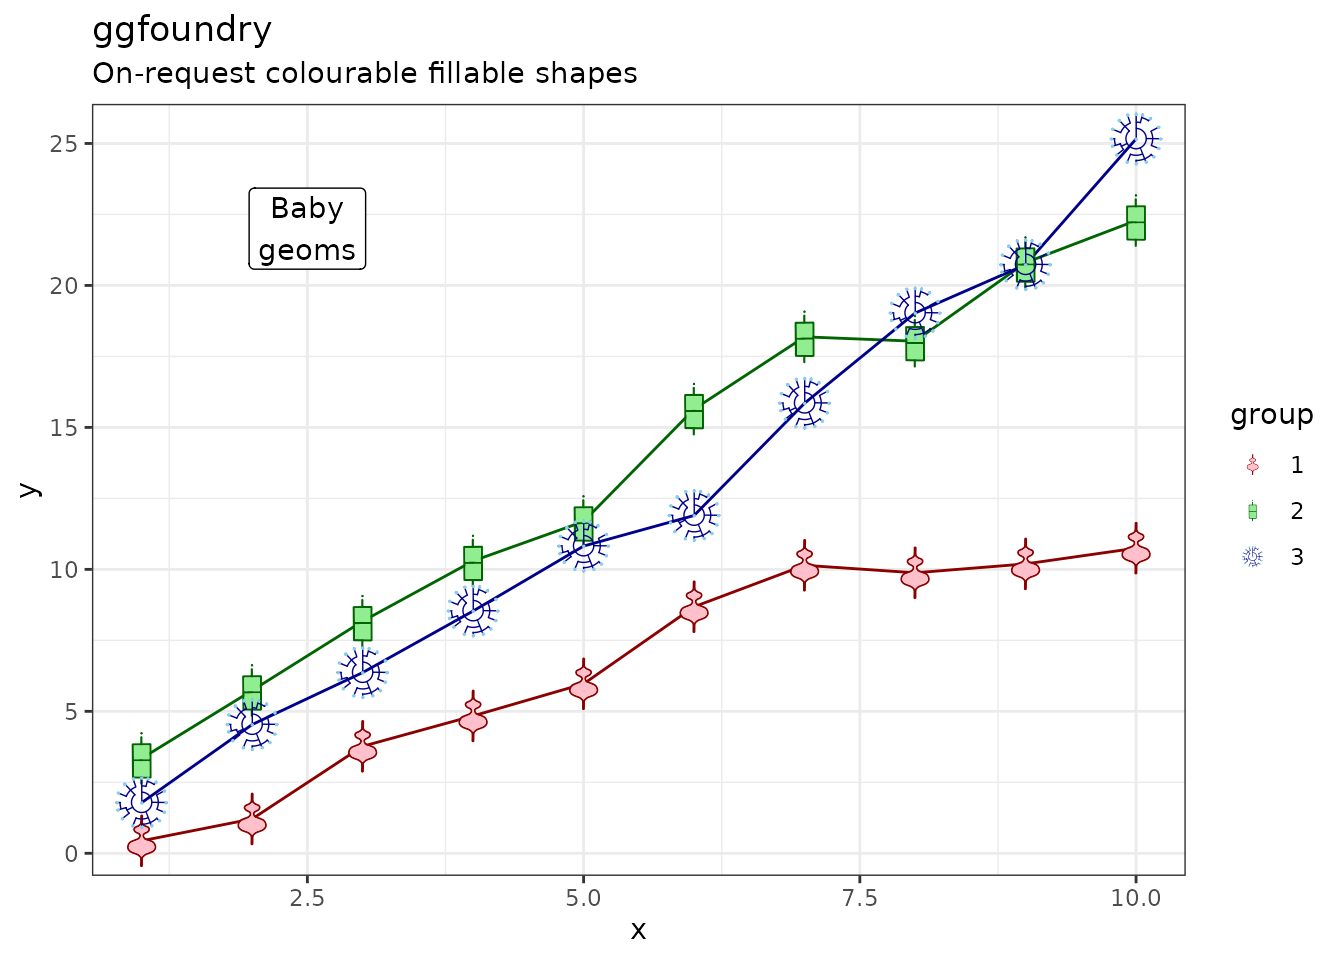
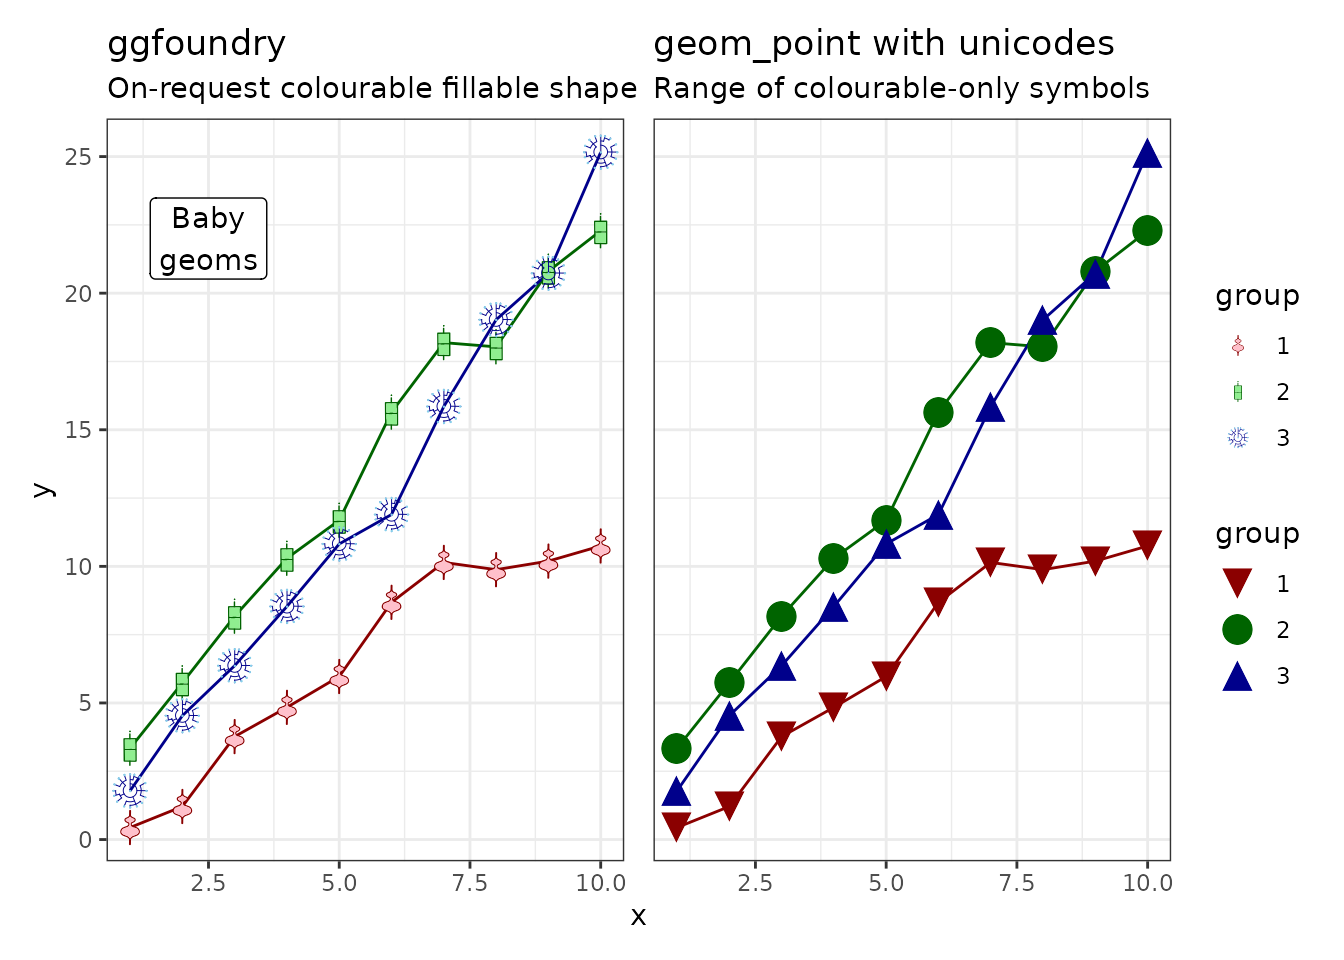
Deploying to gh-pages from @ cgoo4/ggfoundry@6482c1ad78275a4b85521bda27457c104b94830b 🚀

diff --git a/articles/ggfoundry.html b/articles/ggfoundry.html
@@ -161,29 +161,25 @@ great option. They are colourable and appear in the legend.</p>
 <span>  <span class="fu"><a href="https://ggplot2.tidyverse.org/reference/scale_manual.html" class="external-link">scale_fill_manual</a></span><span class="op">(</span>values <span class="op">=</span> <span class="fu"><a href="https://rdrr.io/r/base/c.html" class="external-link">c</a></span><span class="op">(</span><span class="st">"pink"</span>, <span class="st">"lightgreen"</span>, <span class="st">"skyblue"</span><span class="op">)</span><span class="op">)</span> <span class="op">+</span></span>
 <span>  <span class="fu"><a href="https://ggplot2.tidyverse.org/reference/ggtheme.html" class="external-link">theme_bw</a></span><span class="op">(</span><span class="op">)</span></span>
 <span></span>
-<span><span class="op">(</span><span class="va">p1</span> <span class="op">&lt;-</span> <span class="va">p</span> <span class="op">+</span></span>
+<span><span class="va">p1</span> <span class="op">&lt;-</span> <span class="va">p</span> <span class="op">+</span></span>
 <span>  <span class="fu"><a href="../reference/geom_casting.html">geom_casting</a></span><span class="op">(</span>size <span class="op">=</span> <span class="fl">0.15</span><span class="op">)</span> <span class="op">+</span></span>
 <span>  <span class="fu"><a href="https://ggplot2.tidyverse.org/reference/annotate.html" class="external-link">annotate</a></span><span class="op">(</span><span class="st">"label"</span>, x <span class="op">=</span> <span class="fl">2.5</span>, y <span class="op">=</span> <span class="fl">22</span>, label <span class="op">=</span> <span class="st">"Baby\ngeoms"</span><span class="op">)</span> <span class="op">+</span></span>
 <span>  <span class="fu"><a href="https://ggplot2.tidyverse.org/reference/scale_manual.html" class="external-link">scale_shape_manual</a></span><span class="op">(</span>values <span class="op">=</span> <span class="fu"><a href="https://rdrr.io/r/base/c.html" class="external-link">c</a></span><span class="op">(</span><span class="st">"violin"</span>, <span class="st">"box"</span>, <span class="st">"dendro"</span><span class="op">)</span><span class="op">)</span> <span class="op">+</span></span>
 <span>  <span class="fu"><a href="https://ggplot2.tidyverse.org/reference/labs.html" class="external-link">labs</a></span><span class="op">(</span></span>
 <span>    title <span class="op">=</span> <span class="st">"ggfoundry"</span>,</span>
 <span>    subtitle <span class="op">=</span> <span class="st">"On-request colourable fillable shapes"</span></span>
-<span>    <span class="op">)</span><span class="op">)</span></span></code></pre></div>
-<p><img src="ggfoundry_files/figure-html/unicodes-1.png" width="672"></p>
-<div class="sourceCode" id="cb3"><pre class="downlit sourceCode r">
-<code class="sourceCode R"><span></span>
-<span><span class="op">(</span><span class="va">p2</span> <span class="op">&lt;-</span> <span class="va">p</span> <span class="op">+</span></span>
+<span>    <span class="op">)</span></span>
+<span></span>
+<span><span class="va">p2</span> <span class="op">&lt;-</span> <span class="va">p</span> <span class="op">+</span></span>
 <span>  <span class="fu"><a href="https://ggplot2.tidyverse.org/reference/geom_point.html" class="external-link">geom_point</a></span><span class="op">(</span>size <span class="op">=</span> <span class="fl">5</span><span class="op">)</span> <span class="op">+</span></span>
-<span>  <span class="fu"><a href="https://ggplot2.tidyverse.org/reference/scale_manual.html" class="external-link">scale_shape_manual</a></span><span class="op">(</span>values <span class="op">=</span> <span class="fu"><a href="https://rdrr.io/r/base/c.html" class="external-link">c</a></span><span class="op">(</span><span class="st">"\u058D"</span>, <span class="st">"\u23C0"</span>, <span class="st">"\u23F2"</span><span class="op">)</span><span class="op">)</span> <span class="op">+</span></span>
+<span>  <span class="fu"><a href="https://ggplot2.tidyverse.org/reference/scale_manual.html" class="external-link">scale_shape_manual</a></span><span class="op">(</span>values<span class="op">=</span><span class="fu"><a href="https://rdrr.io/r/base/c.html" class="external-link">c</a></span><span class="op">(</span><span class="st">"\U25BC"</span>,<span class="st">"\U25CF"</span>,<span class="st">"\U25B2"</span><span class="op">)</span><span class="op">)</span> <span class="op">+</span></span>
 <span>  <span class="fu"><a href="https://ggplot2.tidyverse.org/reference/labs.html" class="external-link">labs</a></span><span class="op">(</span></span>
 <span>    title <span class="op">=</span> <span class="st">"geom_point with unicodes"</span>,</span>
 <span>    subtitle <span class="op">=</span> <span class="st">"Range of colourable-only symbols"</span></span>
-<span>    <span class="op">)</span><span class="op">)</span></span></code></pre></div>
-<p><img src="ggfoundry_files/figure-html/unicodes-2.png" width="672"></p>
-<div class="sourceCode" id="cb4"><pre class="downlit sourceCode r">
-<code class="sourceCode R"><span></span>
+<span>    <span class="op">)</span></span>
+<span></span>
 <span><span class="va">p1</span> <span class="op">+</span> <span class="va">p2</span> <span class="op">+</span> <span class="fu"><a href="https://patchwork.data-imaginist.com/reference/plot_layout.html" class="external-link">plot_layout</a></span><span class="op">(</span>guides <span class="op">=</span> <span class="st">"collect"</span>, axes <span class="op">=</span> <span class="st">"collect"</span><span class="op">)</span></span></code></pre></div>
-<p><img src="ggfoundry_files/figure-html/unicodes-3.png" width="672"></p>
+<p><img src="ggfoundry_files/figure-html/unicodes-1.png" width="672"></p>
 </div>
 <div class="section level2">
 <h2 id="contrast-with-ggtext-icons">Contrast with ggtext / icons<a class="anchor" aria-label="anchor" href="#contrast-with-ggtext-icons"></a>
@@ -193,7 +189,7 @@ as ggplot points is via the showtext and ggtext packages. They too are
 colourable, but the fill is for the surrounding label rather than the
 symbol itself. The legend reflects the use of the richtext geom,
 i.e. shows letters.</p>
-<div class="sourceCode" id="cb5"><pre class="downlit sourceCode r">
+<div class="sourceCode" id="cb3"><pre class="downlit sourceCode r">
 <code class="sourceCode R"><span><span class="kw"><a href="https://rdrr.io/r/base/library.html" class="external-link">library</a></span><span class="op">(</span><span class="va"><a href="https://github.com/yixuan/showtext" class="external-link">showtext</a></span><span class="op">)</span></span>
 <span><span class="kw"><a href="https://rdrr.io/r/base/library.html" class="external-link">library</a></span><span class="op">(</span><span class="va"><a href="https://wilkelab.org/ggtext/" class="external-link">ggtext</a></span><span class="op">)</span></span>
 <span></span>
@@ -210,51 +206,13 @@ i.e. shows letters.</p>
 <span>    title <span class="op">=</span> <span class="st">"ggtext with icons"</span>,</span>
 <span>    subtitle <span class="op">=</span> <span class="fu"><a href="https://rdrr.io/r/base/paste.html" class="external-link">paste0</a></span><span class="op">(</span></span>
 <span>      <span class="st">"Colourable icons; label fill; "</span>, </span>
-<span>      <span class="st">"showtext alters patchwork font size; "</span>,</span>
 <span>      <span class="st">"text legend"</span></span>
 <span>      <span class="op">)</span></span>
 <span>    <span class="op">)</span></span>
 <span></span>
 <span><span class="va">p1</span> <span class="op">+</span> <span class="va">p2</span> <span class="op">+</span> <span class="fu"><a href="https://patchwork.data-imaginist.com/reference/plot_layout.html" class="external-link">plot_layout</a></span><span class="op">(</span>guides <span class="op">=</span> <span class="st">"collect"</span>, axes <span class="op">=</span> <span class="st">"collect"</span><span class="op">)</span></span></code></pre></div>
 <p><img src="ggfoundry_files/figure-html/ggtext-1.png" width="700"></p>
-<div class="sourceCode" id="cb6"><pre class="downlit sourceCode r">
-<code class="sourceCode R"><span><span class="fu">cowplot</span><span class="fu">::</span><span class="fu"><a href="https://wilkelab.org/cowplot/reference/plot_grid.html" class="external-link">plot_grid</a></span><span class="op">(</span><span class="va">p1</span>, <span class="va">p2</span><span class="op">)</span></span>
-<span><span class="co">#&gt; Warning in grid.Call(C_textBounds, as.graphicsAnnot(x$label), x$x, x$y, : font</span></span>
-<span><span class="co">#&gt; family 'fa-solid' not found in PostScript font database</span></span>
-<span><span class="co">#&gt; Warning in grid.Call(C_stringMetric, as.graphicsAnnot(x$label)): font family</span></span>
-<span><span class="co">#&gt; 'fa-solid' not found in PostScript font database</span></span>
-<span><span class="co">#&gt; Warning in grid.Call(C_stringMetric, as.graphicsAnnot(x$label)): font family</span></span>
-<span><span class="co">#&gt; 'fa-solid' not found in PostScript font database</span></span>
-<span><span class="co">#&gt; Warning in grid.Call(C_stringMetric, as.graphicsAnnot(x$label)): font family</span></span>
-<span><span class="co">#&gt; 'fa-solid' not found in PostScript font database</span></span>
-<span><span class="co">#&gt; Warning in grid.Call(C_stringMetric, as.graphicsAnnot(x$label)): font family</span></span>
-<span><span class="co">#&gt; 'fa-solid' not found in PostScript font database</span></span>
-<span><span class="co">#&gt; Warning in grid.Call(C_stringMetric, as.graphicsAnnot(x$label)): font family</span></span>
-<span><span class="co">#&gt; 'fa-solid' not found in PostScript font database</span></span>
-<span><span class="co">#&gt; Warning in grid.Call(C_stringMetric, as.graphicsAnnot(x$label)): font family</span></span>
-<span><span class="co">#&gt; 'fa-solid' not found in PostScript font database</span></span>
-<span><span class="co">#&gt; Warning in grid.Call(C_stringMetric, as.graphicsAnnot(x$label)): font family</span></span>
-<span><span class="co">#&gt; 'fa-solid' not found in PostScript font database</span></span>
-<span><span class="co">#&gt; Warning in grid.Call(C_stringMetric, as.graphicsAnnot(x$label)): font family</span></span>
-<span><span class="co">#&gt; 'fa-solid' not found in PostScript font database</span></span>
-<span><span class="co">#&gt; Warning in grid.Call(C_stringMetric, as.graphicsAnnot(x$label)): font family</span></span>
-<span><span class="co">#&gt; 'fa-solid' not found in PostScript font database</span></span>
-<span><span class="co">#&gt; Warning in grid.Call(C_stringMetric, as.graphicsAnnot(x$label)): font family</span></span>
-<span><span class="co">#&gt; 'fa-solid' not found in PostScript font database</span></span>
-<span><span class="co">#&gt; Warning in grid.Call(C_stringMetric, as.graphicsAnnot(x$label)): font family</span></span>
-<span><span class="co">#&gt; 'fa-solid' not found in PostScript font database</span></span>
-<span><span class="co">#&gt; Warning in grid.Call(C_stringMetric, as.graphicsAnnot(x$label)): font family</span></span>
-<span><span class="co">#&gt; 'fa-solid' not found in PostScript font database</span></span>
-<span><span class="co">#&gt; Warning in grid.Call(C_stringMetric, as.graphicsAnnot(x$label)): font family</span></span>
-<span><span class="co">#&gt; 'fa-solid' not found in PostScript font database</span></span>
-<span><span class="co">#&gt; Warning in grid.Call(C_textBounds, as.graphicsAnnot(x$label), x$x, x$y, : font</span></span>
-<span><span class="co">#&gt; family 'fa-solid' not found in PostScript font database</span></span>
-<span><span class="co">#&gt; Warning in grid.Call(C_textBounds, as.graphicsAnnot(x$label), x$x, x$y, : font</span></span>
-<span><span class="co">#&gt; family 'fa-solid' not found in PostScript font database</span></span>
-<span><span class="co">#&gt; Warning in grid.Call(C_textBounds, as.graphicsAnnot(x$label), x$x, x$y, : font</span></span>
-<span><span class="co">#&gt; family 'fa-solid' not found in PostScript font database</span></span></code></pre></div>
-<p><img src="ggfoundry_files/figure-html/ggtext-2.png" width="700"></p>
-<div class="sourceCode" id="cb7"><pre class="downlit sourceCode r">
+<div class="sourceCode" id="cb4"><pre class="downlit sourceCode r">
 <code class="sourceCode R"><span></span>
 <span><span class="fu"><a href="https://rdrr.io/pkg/showtext/man/showtext_auto.html" class="external-link">showtext_auto</a></span><span class="op">(</span>enable <span class="op">=</span> <span class="cn">FALSE</span><span class="op">)</span></span></code></pre></div>
 </div>
@@ -264,7 +222,7 @@ i.e. shows letters.</p>
 <p>ggimage is a great option for full images, e.g. png files. Country
 flags, company logos and sports team badges are good example use-cases,
 as rendering the full image as-is is often the desired outcome.</p>
-<div class="sourceCode" id="cb8"><pre class="downlit sourceCode r">
+<div class="sourceCode" id="cb5"><pre class="downlit sourceCode r">
 <code class="sourceCode R"><span><span class="kw"><a href="https://rdrr.io/r/base/library.html" class="external-link">library</a></span><span class="op">(</span><span class="va"><a href="https://github.com/GuangchuangYu/ggimage" class="external-link">ggimage</a></span><span class="op">)</span></span>
 <span></span>
 <span><span class="va">df</span> <span class="op">&lt;-</span> <span class="fu"><a href="https://tibble.tidyverse.org/reference/tribble.html" class="external-link">tribble</a></span><span class="op">(</span></span>
@@ -315,7 +273,7 @@ smaller second layer with a differently-coloured symbol.</li>
 <li>Use photoshop-style special effects provided by the <a href="https://github.com/thomasp85/ggfx" class="external-link">ggfx</a> package, e.g. adding a
 differently-coloured outer-glow.</li>
 </ul>
-<div class="sourceCode" id="cb9"><pre class="downlit sourceCode r">
+<div class="sourceCode" id="cb6"><pre class="downlit sourceCode r">
 <code class="sourceCode R"><span><span class="kw"><a href="https://rdrr.io/r/base/library.html" class="external-link">library</a></span><span class="op">(</span><span class="va"><a href="https://ggfx.data-imaginist.com" class="external-link">ggfx</a></span><span class="op">)</span></span>
 <span></span>
 <span><span class="va">df</span> <span class="op">&lt;-</span> <span class="fu"><a href="https://tibble.tidyverse.org/reference/tribble.html" class="external-link">tribble</a></span><span class="op">(</span></span>
@@ -375,7 +333,7 @@ differently-coloured outer-glow.</li>
 <a href="https://github.com/aphalo/ggpp" class="external-link">ggpp</a> and
 <code><a href="https://docs.r4photobiology.info/ggpp/reference/geom_grob.html" class="external-link">geom_grob()</a></code> to add the appropriate layer. A circle is used
 here as a very basic example.</p>
-<div class="sourceCode" id="cb10"><pre class="downlit sourceCode r">
+<div class="sourceCode" id="cb7"><pre class="downlit sourceCode r">
 <code class="sourceCode R"><span><span class="kw"><a href="https://rdrr.io/r/base/library.html" class="external-link">library</a></span><span class="op">(</span><span class="va"><a href="https://docs.r4photobiology.info/ggpp/" class="external-link">ggpp</a></span><span class="op">)</span></span>
 <span><span class="kw"><a href="https://rdrr.io/r/base/library.html" class="external-link">library</a></span><span class="op">(</span><span class="va">grid</span><span class="op">)</span></span>
 <span></span>
